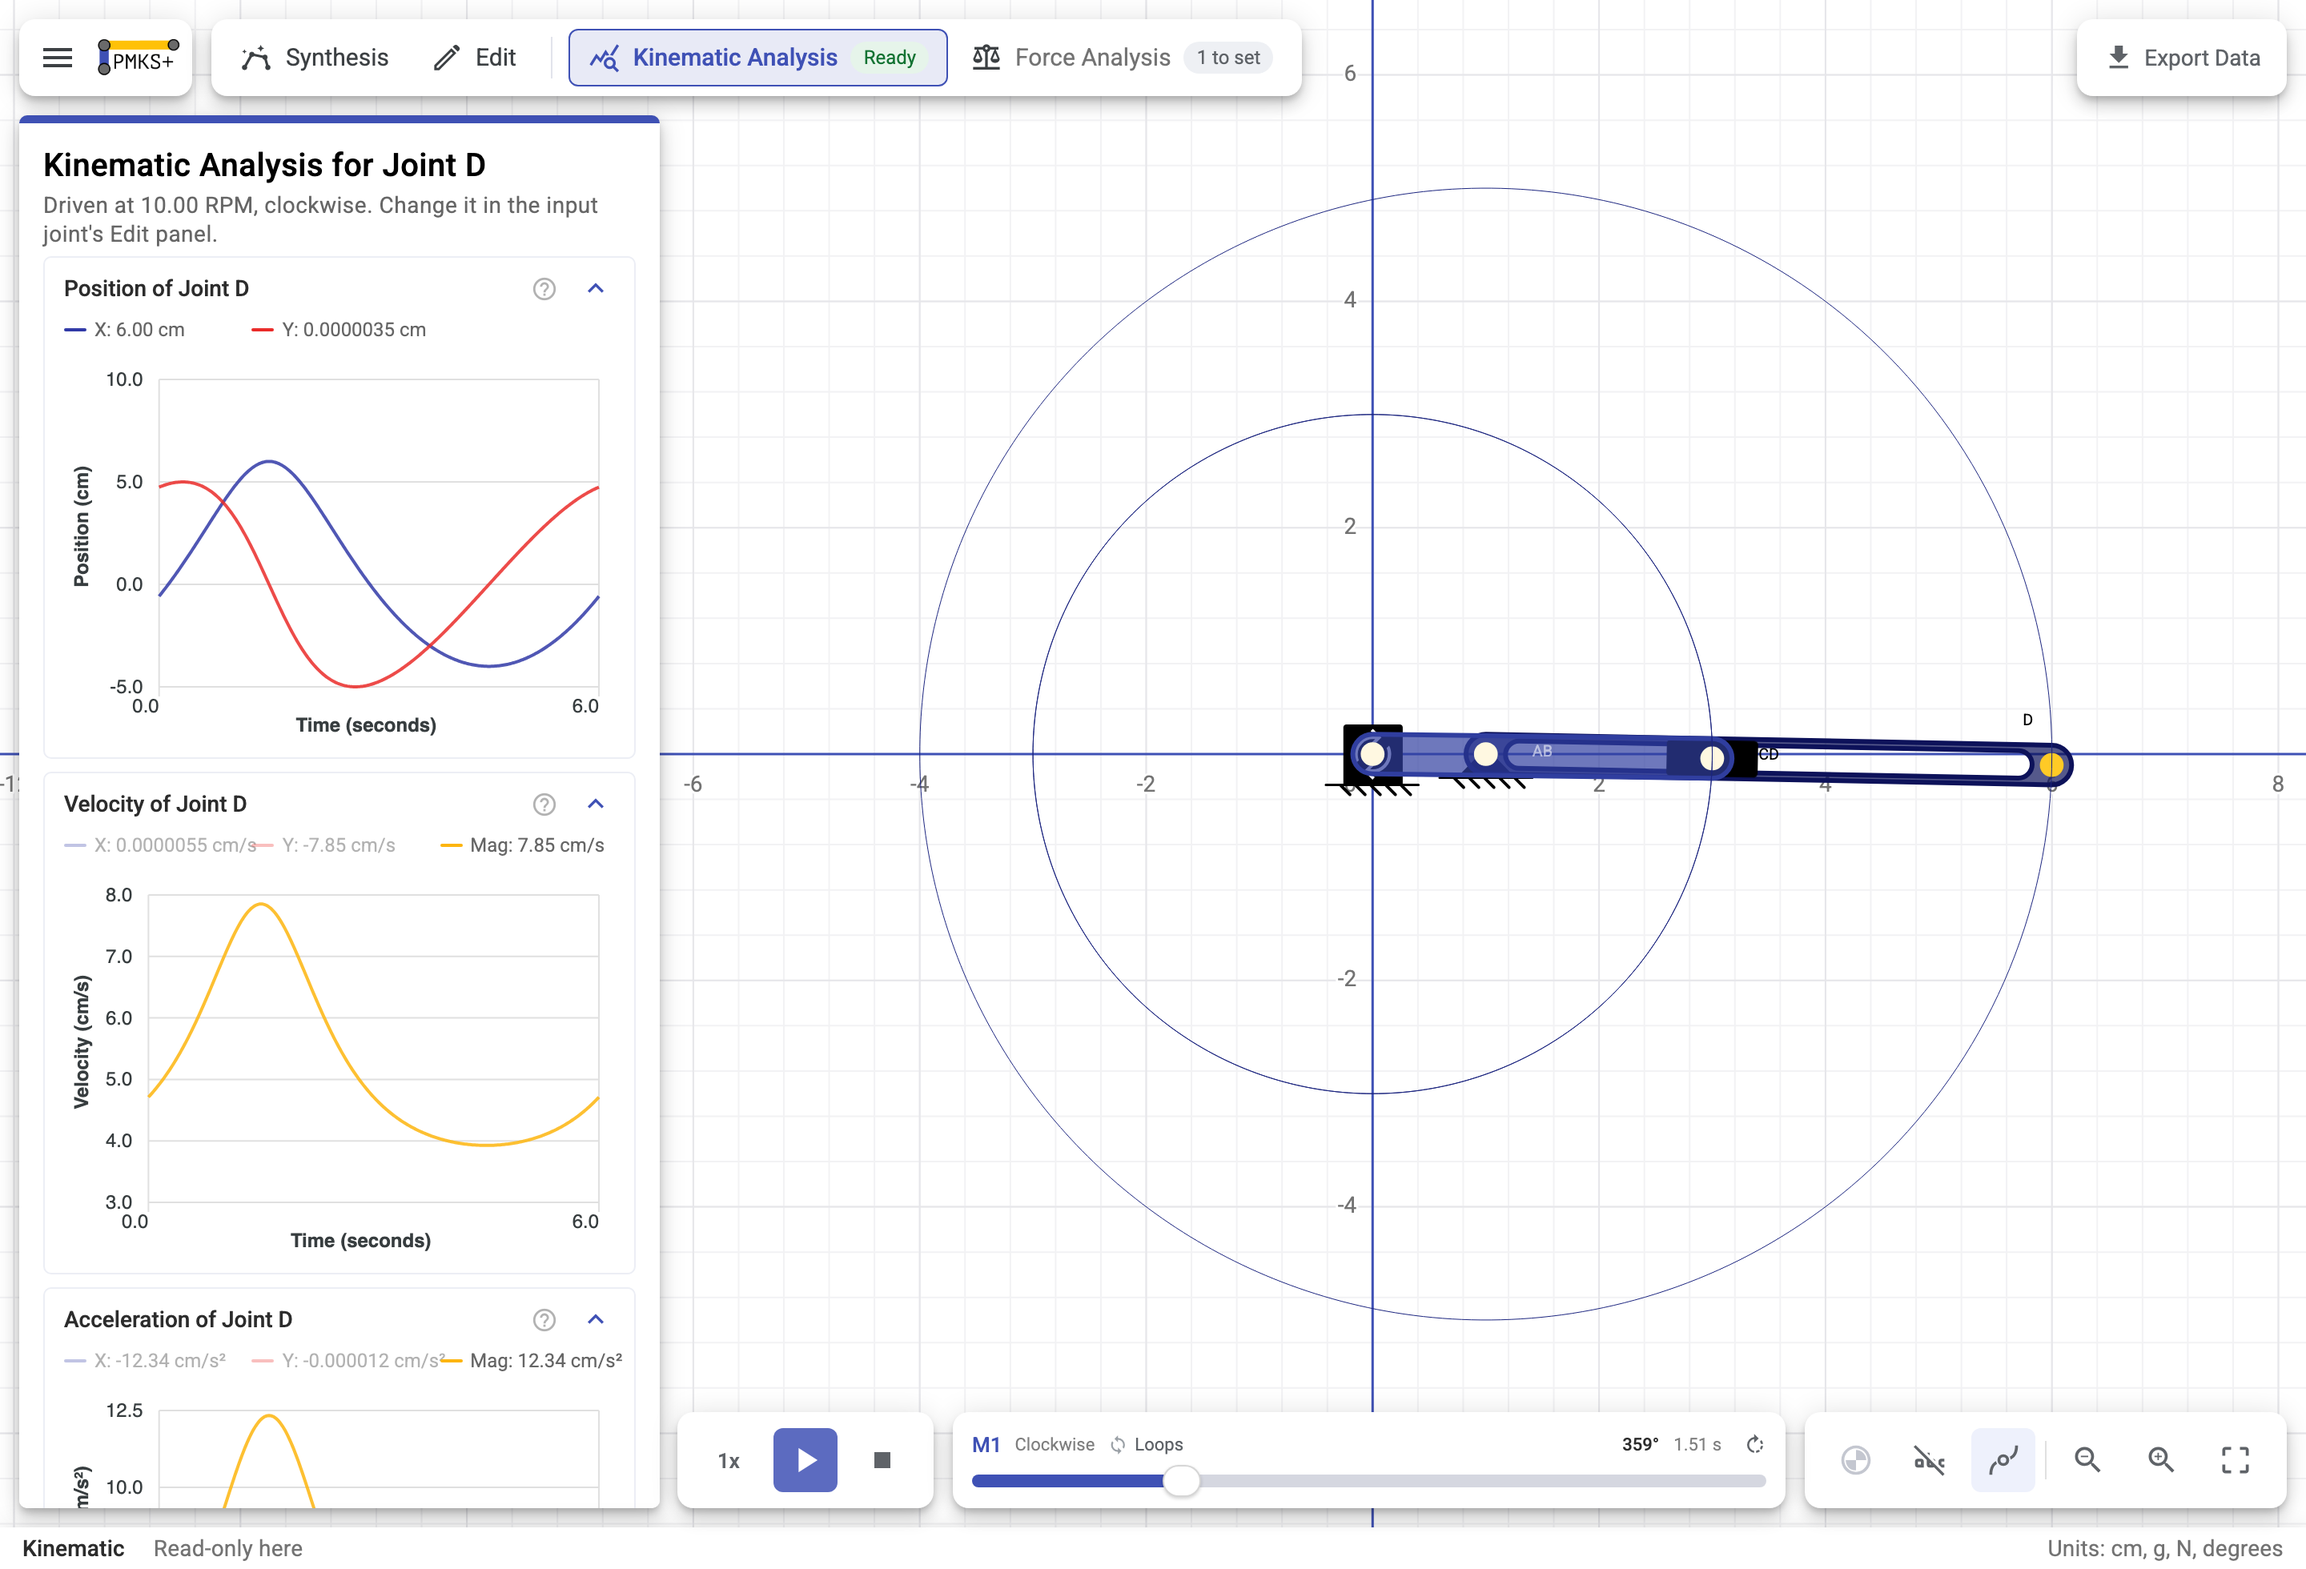
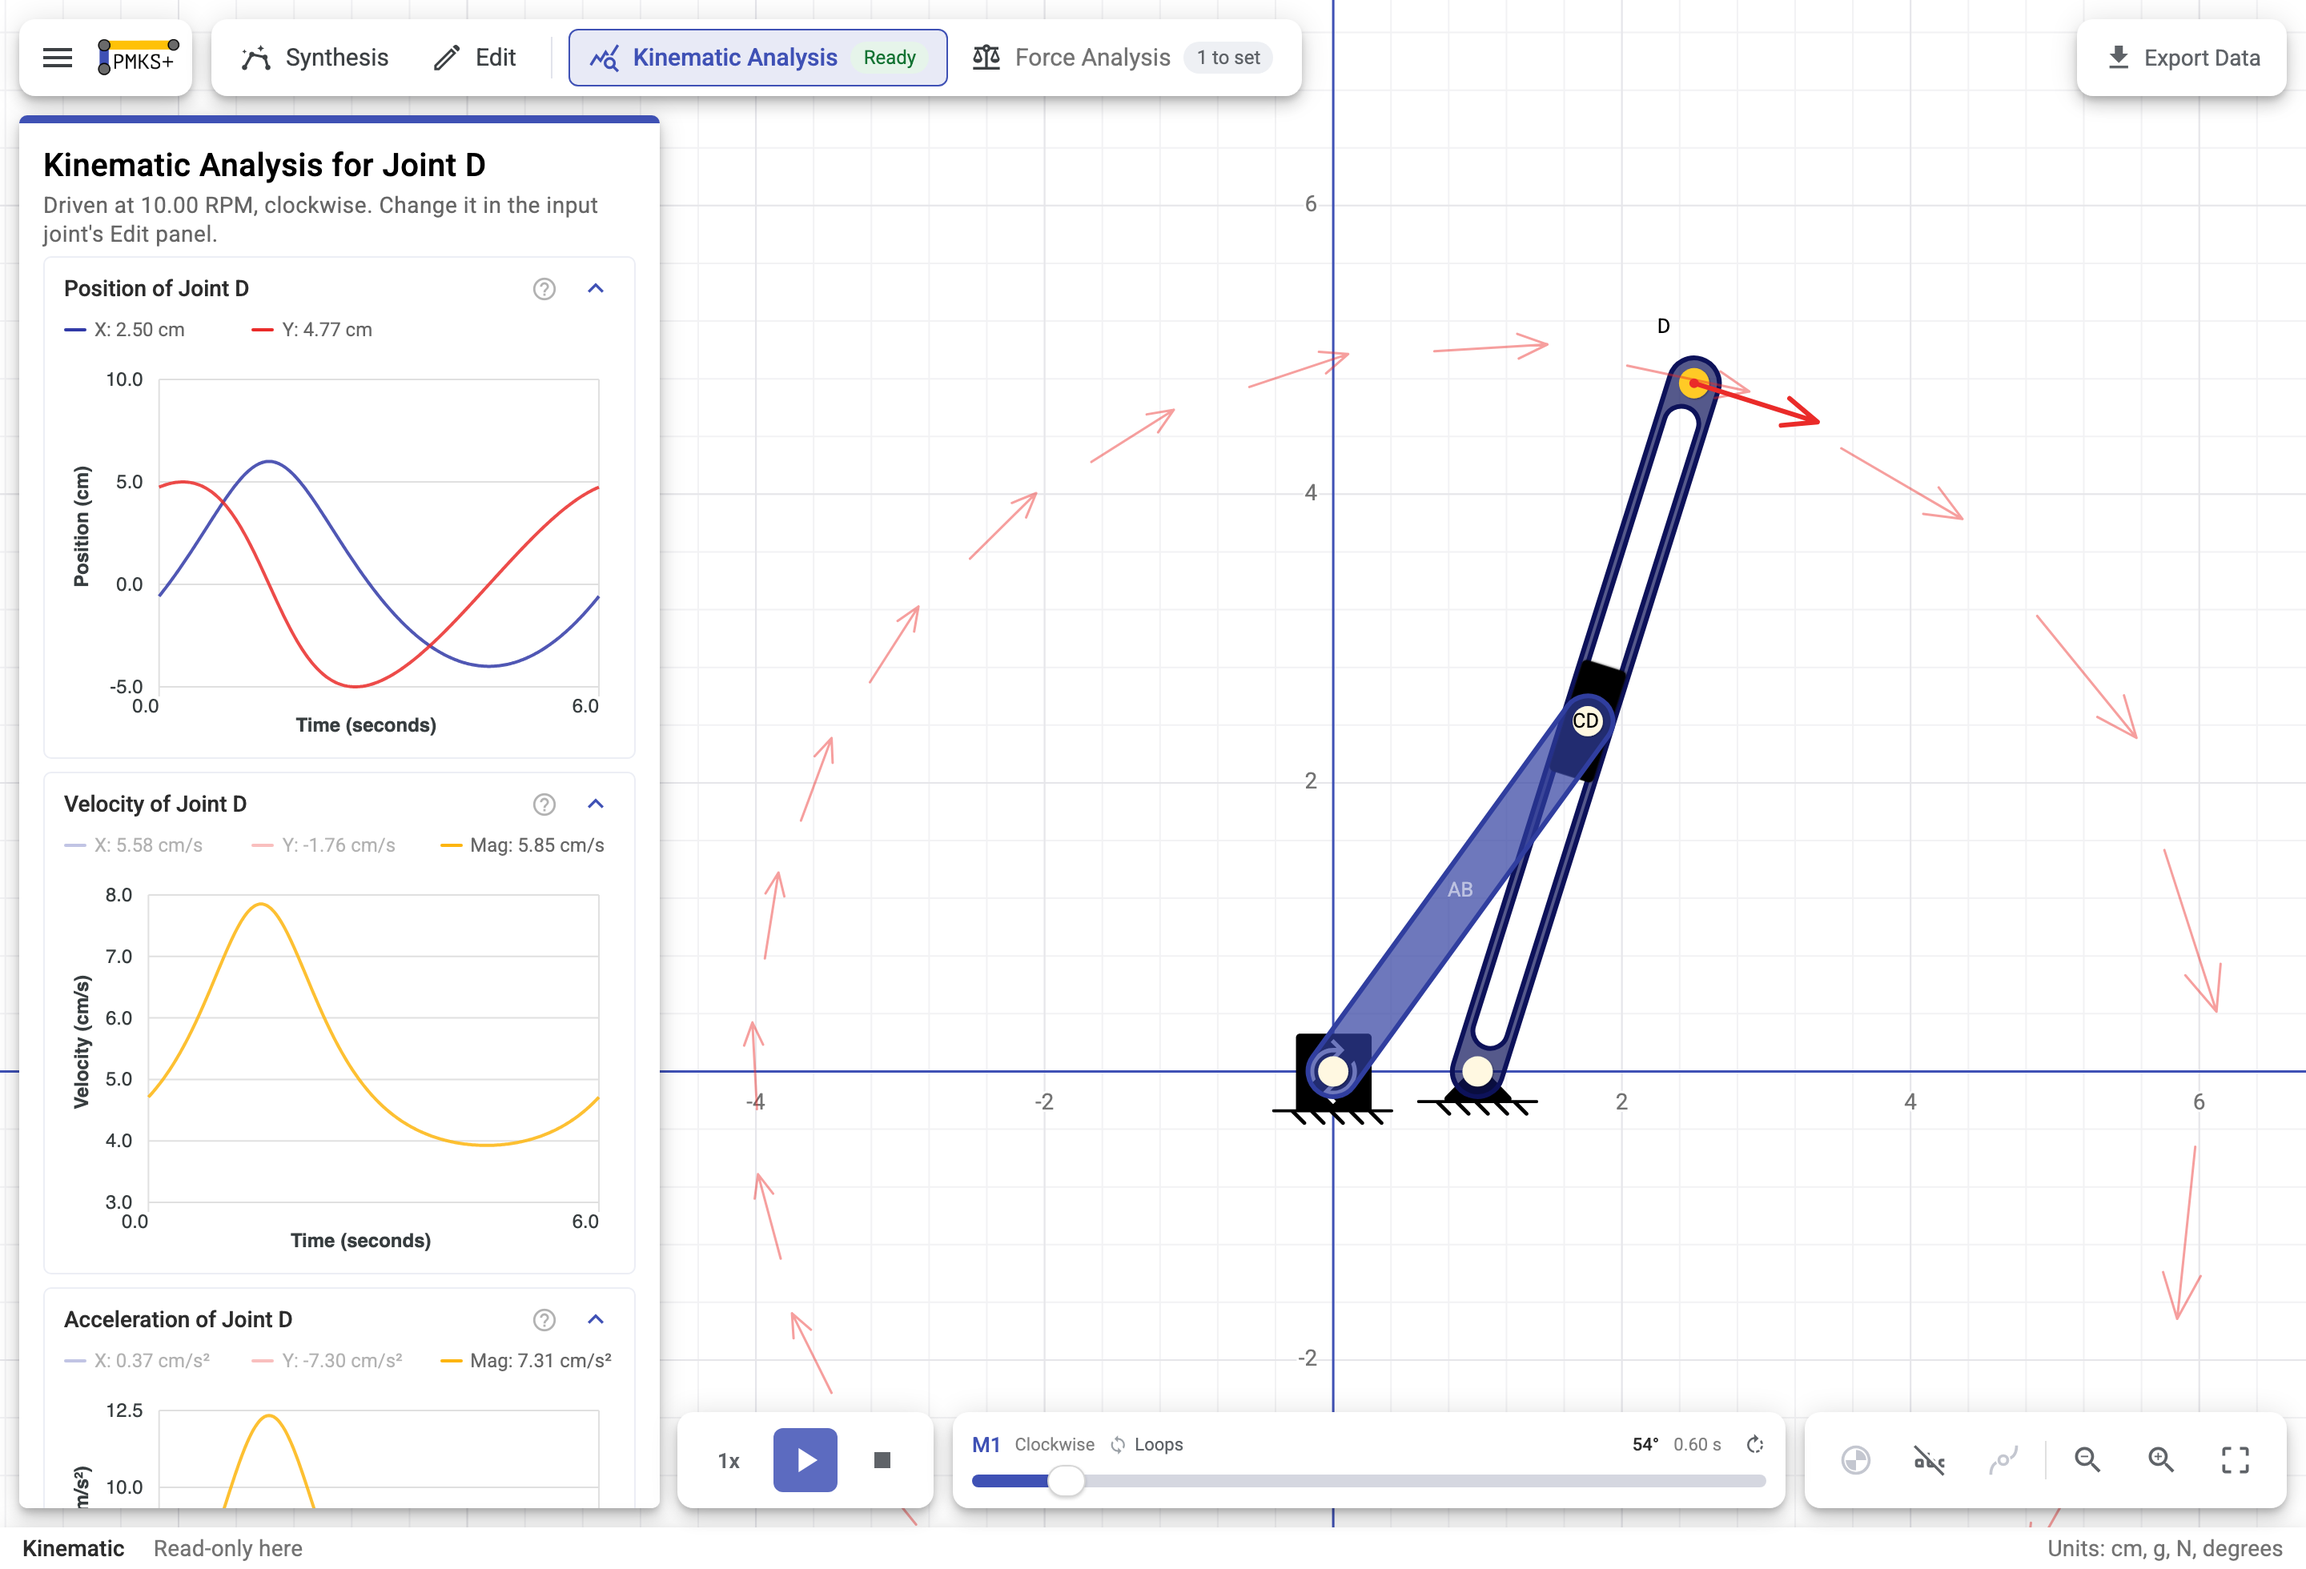
Yellow velocity arrows, a real number in the classroom line, a readable Analyze shot
Four things the review asked for.

The hero's velocity arrows are yellow. The canvas draws a velocity vector in the
series colour of its y component, because on a graph the arrow and the curve
have to be the same red; the hero has no graph to agree with, so it takes the
yellow the app plots *magnitude* in instead — the same drawing's other name for
the same arrow's length. The pale path arrows are raised from the canvas's 0.45
to 0.7: that alpha was chosen against red, and yellow is nowhere near red's
lightness, so the same value landed close to white.

The classroom line leads with how many people open it rather than with "taught
with in many courses at", which is what every tool says about itself. The number
is the 30-day active users from the project's Firebase panel. It is seasonal —
the same chart peaks over 2,000 in term — so "around 1,300" is the quiet end of
the range rather than the middle of it.

The Analyze screenshot is retaken. The crank and the slotted lever it drives are
within twenty degrees of each other all the way round that mechanism, and the
old shot caught the pose where they lie exactly on top of one another. It now
poses by sample rather than by how long playback was left running, at the pose
where the two are furthest apart — which is also a pose where no readout beside
it is a rounding error printed to seven decimal places. Velocity is switched on
over the mechanism there too, which is the sentence the section makes beside it.

diff --git a/engine/src/precompute.ts b/engine/src/precompute.ts
@@ -27,7 +27,7 @@ import { GROUND_STROKE, motorBodyPath, plusPath } from '../vendor/app/model/join
 import { buildVectorTrace, VECTOR_INK } from '../vendor/app/model/vector-trace';
 import { SliderMarkService, type SliderMark } from '../vendor/app/services/slider-mark.service';
 import { buildMechanismAtScale } from '../vendor/test-utils/verification/fixture';
-import { LINKAGES } from './linkages';
+import { LINKAGES, type Linkage } from './linkages';
 
 /**
  * How many poses of a cycle are written out.
@@ -181,7 +181,7 @@ function main() {
 
     let vectors: ReturnType<typeof velocityTrace> = null;
     if (linkage.vectors && traced.length > 0) {
-      vectors = velocityTrace(mechanism, traced[0].i, pick);
+      vectors = velocityTrace(mechanism, traced[0].i, pick, linkage);
     }
 
     const view = bounds(mechanism, sliders);
@@ -285,7 +285,7 @@ function guidesOf(mechanism: any) {
  * in the cycle, plus the live vector at each written pose so the arrow on screen
  * is drawn to the same scale as the ones behind it.
  */
-function velocityTrace(mechanism: any, jointIndex: number, pick: number[]) {
+function velocityTrace(mechanism: any, jointIndex: number, pick: number[], linkage: Linkage) {
   const id = mechanism.joints[0][jointIndex].id;
   const steps = mechanism.joints.length;
   KinematicsSolver.resetVariables();
@@ -308,7 +308,8 @@ function velocityTrace(mechanism: any, jointIndex: number, pick: number[]) {
   if (!shape) return null;
 
   return {
-    ink: VECTOR_INK.velocity,
+    ink: linkage.vectorInk ?? VECTOR_INK.velocity,
+    traceOpacity: linkage.vectorTraceOpacity ?? 0.45,
     d: trimPath(shape.d),
     // The arrow at the pose on screen: tail, then the vector already scaled to
     // the same length the pale arrows behind it were drawn at, so the live one

diff --git a/engine/src/linkages.ts b/engine/src/linkages.ts
@@ -14,6 +14,7 @@
 import type { MechanismFixture } from '../vendor/test-utils/verification/fixture';
 import { MODEL_SCALE } from '../vendor/app/model/render-scale';
 import { PART_COLORS } from '../vendor/app/model/joint-colors';
+import { ANALYSIS_SERIES_COLORS } from '../vendor/app/model/analysis-series';
 
 /** Centimetres to the internal frame everything below is authored in. */
 const cm = (v: number) => v * MODEL_SCALE;
@@ -116,6 +117,24 @@ export interface Linkage {
    * two dozen arrows around the cycle and a heavier one at the live pose.
    */
   vectors?: boolean;
+  /**
+   * What to draw them in, if not the ink the app's canvas uses.
+   *
+   * The canvas draws a velocity vector in the series colour of its y component,
+   * because on a graph the arrow and the curve have to be the same red. On the
+   * hero there is no graph to agree with, and red on an indigo linkage reads as
+   * a warning rather than as a quantity — so it takes the yellow the app plots
+   * *magnitude* in instead, which is the same drawing's other name for the same
+   * arrow's length.
+   */
+  vectorInk?: string;
+  /**
+   * How faint the two dozen path arrows are behind the live one. The canvas
+   * draws them at 0.45, which was chosen against its red; the same alpha on a
+   * yellow lands close to white, because the two inks are nowhere near the same
+   * lightness. Raised here for exactly that reason and no other.
+   */
+  vectorTraceOpacity?: number;
 }
 
 export const LINKAGES: Linkage[] = [
@@ -128,6 +147,8 @@ export const LINKAGES: Linkage[] = [
   {
     id: 'fourbar',
     vectors: true,
+    vectorInk: ANALYSIS_SERIES_COLORS.Z,
+    vectorTraceOpacity: 0.7,
     fixture: fourBar({
       crank: 1.2,
       ground: 3.2,

diff --git a/components/landing/classroom.tsx b/components/landing/classroom.tsx
@@ -1,15 +1,21 @@
 import Kicker from './kicker'
 
-/** One line of provenance, straight under the hero where a claim is cheapest to check. */
+/**
+ * One line of provenance, straight under the hero where a claim is cheapest to
+ * check. A number rather than a list of institutions: "taught with in many
+ * courses at" is what every tool says about itself, and how many people opened
+ * it last month is not.
+ */
 export default function Classroom() {
   return (
     <section className="border-b border-ink-100 px-5 py-[22px] lg:flex lg:items-baseline lg:gap-[22px] lg:px-14 lg:py-6">
       <Kicker className="mb-2 whitespace-nowrap lg:mb-0">In the classroom</Kicker>
       <p className="max-w-[74em] text-[14.5px] leading-[1.6] text-ink-700 lg:text-[15.5px]">
-        Taught with in many courses at{' '}
-        <span className="font-medium text-ink-900">Worcester Polytechnic Institute</span>, and at{' '}
-        <span className="font-medium text-ink-900">Oregon State</span> for years before that. Solver
-        output is checked row by row against an independent implementation.
+        Around <span className="font-medium text-ink-900">1,300 students and instructors</span> a
+        month, in kinematics courses at{' '}
+        <span className="font-medium text-ink-900">Worcester Polytechnic Institute</span> and, for
+        years before that, at <span className="font-medium text-ink-900">Oregon State</span>, where
+        PMKS began. Every solver result is checked against an independent implementation.
       </p>
     </section>
   )

diff --git a/components/pmks/mechanism-view.tsx b/components/pmks/mechanism-view.tsx
@@ -383,7 +383,7 @@ function Vectors({ data, pose, k }: { data: MechanismData; pose: Pose; k: number
   const [x, y, dx, dy] = pose.live
   return (
     <g pointerEvents="none" fill="none" stroke={data.vectors.ink} strokeLinecap="round">
-      <path d={data.vectors.d} strokeWidth={1.5 / k} opacity={0.45} />
+      <path d={data.vectors.d} strokeWidth={1.5 / k} opacity={data.vectors.traceOpacity} />
       <path d={arrowPath([{ x, y, dx, dy }])} strokeWidth={3 / k} />
       <circle cx={x} cy={y} r={3 / k} fill={data.vectors.ink} stroke="none" />
     </g>

diff --git a/components/landing/analyze.tsx b/components/landing/analyze.tsx
@@ -14,7 +14,7 @@ export default function Analyze() {
       <div className="overflow-hidden rounded-card shadow-card lg:order-1">
         <Image
           src={shot}
-          alt="Kinematic analysis of a Whitworth quick return, with position and velocity graphed"
+          alt="Kinematic analysis of a Whitworth quick return: position, velocity and acceleration graphed for one joint, and its velocity drawn on the mechanism as vectors"
           className="block h-auto w-full"
           sizes="(min-width: 1024px) 45vw, 100vw"
         />

diff --git a/components/pmks/data.ts b/components/pmks/data.ts
@@ -62,7 +62,7 @@ export interface MechanismData {
   bodies: Body[];
   sliders: Slider[];
   traces: { i: number; d: string }[];
-  vectors: { ink: string; d: string; live: number[][] } | null;
+  vectors: { ink: string; traceOpacity: number; d: string; live: number[][] } | null;
   /** Per pose, every joint's x and y, in `jointIds` order. */
   frames: number[][];
 }
